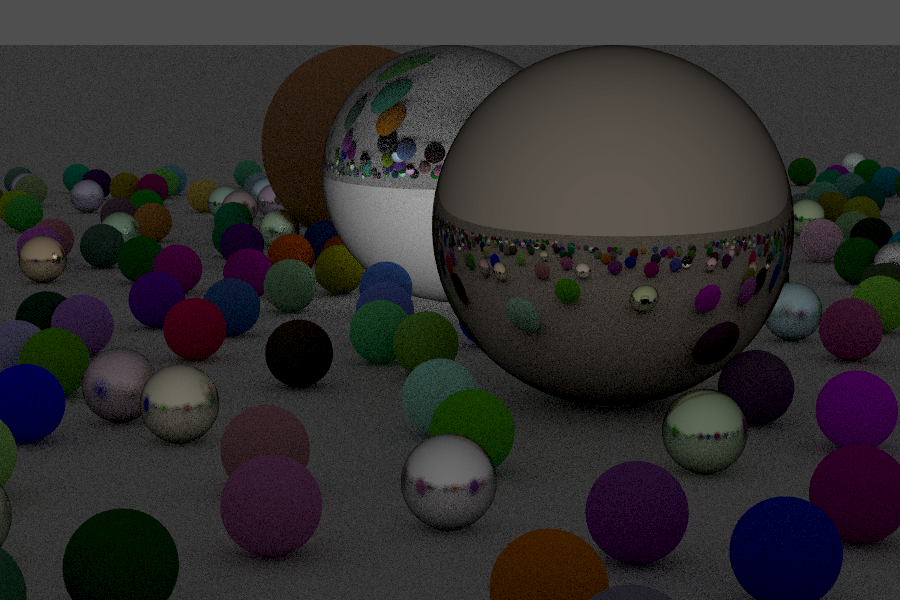
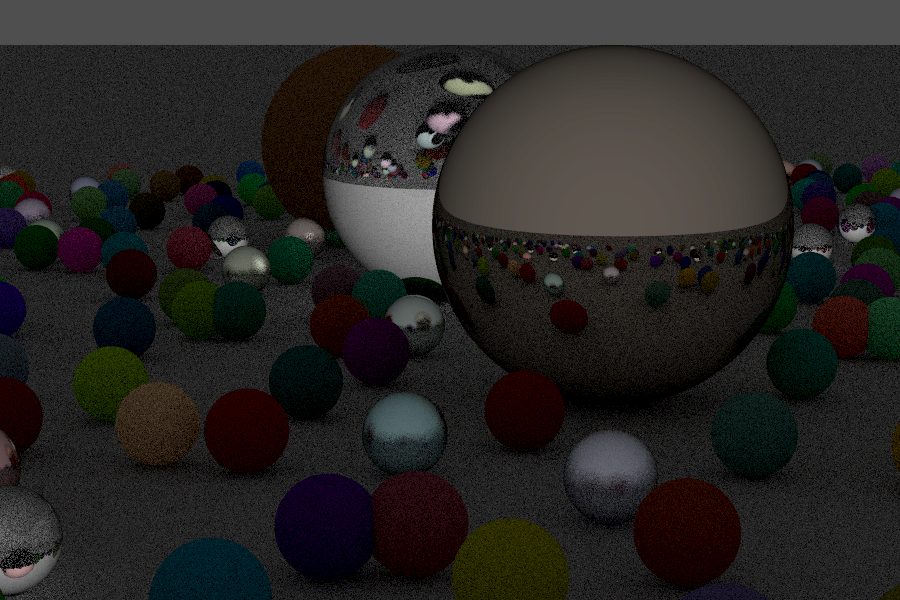
Verify that the crate is Float agnostic and rechange settings

diff --git a/raytracer_cli/src/main.rs b/raytracer_cli/src/main.rs
@@ -4,7 +4,7 @@ use std::sync::mpsc;
 use std::sync::Arc;
 
 use clap::{App, Arg};
-use indicatif::ProgressBar;
+use indicatif::{ProgressBar, ProgressStyle};
 use lalrpop_util::lalrpop_mod;
 use maplit::hashmap;
 use rand;
@@ -107,13 +107,13 @@ fn default_scene_builder() -> SceneDescription {
     for a in -11..11 {
         for b in -11..11 {
             let center = Vec3::new(
-                a as f32 + 0.9 * rng.gen::<f32>(),
+                a as FloatTy + 0.9 * rng.gen::<FloatTy>(),
                 0.2,
-                b as f32 + 0.9 * rng.gen::<f32>(),
+                b as FloatTy + 0.9 * rng.gen::<FloatTy>(),
             );
 
             if (center - Vec3::new(4.0, 0.2, 0.0)).length() > 0.9 {
-                let mat: f32 = rng.gen();
+                let mat: FloatTy = rng.gen();
 
                 if mat < 0.8 {
                     let albedo = Vec3::memberwise_product(rng.gen(), rng.gen());
@@ -163,7 +163,8 @@ fn default_scene_builder() -> SceneDescription {
         Arc::new(Metal::new(Vec3::new(0.7, 0.6, 0.5), None)),
     )));
 
-    let declarations = hittable::build_bvh(objects);
+    // let declarations = hittable::build_bvh(objects);
+    let declarations = objects;
 
     SceneDescription {
         presets: hashmap! {
@@ -253,6 +254,12 @@ fn main() {
     drop(send);
 
     let progress_bar = ProgressBar::new((ny * nx) as _);
+    progress_bar.set_style(
+        ProgressStyle::default_bar()
+            .template("{spinner:.green} [{elapsed_precise}] [{bar:40.cyan/blue}] ({eta})")
+            .progress_chars("#>-"),
+    );
+
     for (i, j, color) in recv.into_iter() {
         image.set_pixel(i, j, color);
         progress_bar.inc(1);

diff --git a/raytracer_cli/src/scene_description/creators.rs b/raytracer_cli/src/scene_description/creators.rs
@@ -6,7 +6,7 @@ use crate::PresetConfig;
 
 use raytracer::hittable::{Plane, Sphere};
 use raytracer::material::{Lambertian, Light, Material, Metal};
-use raytracer::{Hittable, Vec3};
+use raytracer::{FloatTy, Hittable, Vec3};
 
 pub(crate) fn typecheck_params(
     prototype: &HashMap<String, (SceneObjectKind, bool)>,
@@ -80,7 +80,7 @@ pub(crate) fn preset_creator(params: HashMap<String, SceneObject>) -> PresetConf
 
 pub(crate) fn sphere_creator(params: HashMap<String, SceneObject>) -> Box<dyn Hittable> {
     let center: Vec3 = unwrap_scene_object!(params; "center"; SceneObject::Vec3(v) => *v);
-    let radius: f32 = unwrap_scene_object!(params; "radius"; SceneObject::Float(f) => *f);
+    let radius: FloatTy = unwrap_scene_object!(params; "radius"; SceneObject::Float(f) => *f);
     let material: Arc<dyn Material> =
         unwrap_scene_object!(params; "material"; SceneObject::Material(m) => m.clone());
 
@@ -110,6 +110,6 @@ pub(crate) fn light_creator(params: HashMap<String, SceneObject>) -> SceneObject
 
 pub(crate) fn metal_creator(params: HashMap<String, SceneObject>) -> SceneObject {
     let albedo: Vec3 = unwrap_scene_object!(params; "albedo"; SceneObject::Vec3(v) => *v);
-    let fuzz: Option<f32> = optional_scene_object!(params; "fuzz"; SceneObject::Float(f) => *f);
+    let fuzz: Option<FloatTy> = optional_scene_object!(params; "fuzz"; SceneObject::Float(f) => *f);
     SceneObject::Material(Arc::new(Metal::new(albedo, fuzz)))
 }

diff --git a/raytracer/src/material/utils.rs b/raytracer/src/material/utils.rs
@@ -25,20 +25,11 @@ pub fn schlick(cos: FloatTy, reflective_index: FloatTy) -> FloatTy {
 
 #[inline]
 pub fn random_unit_hemisphere<R: Rng>(rng: &mut R, normal: Vec3) -> Vec3 {
-    let [x, y, z]: [f64; 3] = UnitSphere.sample(rng);
-    let v = Vec3::new(x as _, y.abs() as _, z as _).to_unit();
-
-    let t = if normal.x.abs() > normal.y.abs() {
-        Vec3::new(normal.z, 0.0, -normal.x).to_unit()
+    let v: [FloatTy; 3] = UnitSphere.sample(rng);
+    let v: Vec3 = v.into();
+    if Vec3::dot(v, normal) > 0.0 {
+        v
     } else {
-        Vec3::new(0.0, -normal.z, normal.y).to_unit()
-    };
-    let s = Vec3::cross(normal, t);
-
-    Vec3::new(
-        v.x * s.x + v.y * normal.x + v.z * t.x,
-        v.x * s.y + v.y * normal.y + v.z * t.y,
-        v.x * s.z + v.y * normal.z + v.z * t.z,
-    )
-    .to_unit()
+        v
+    }
 }

diff --git a/raytracer/src/hittable/sphere.rs b/raytracer/src/hittable/sphere.rs
@@ -1,6 +1,7 @@
 use std::sync::Arc;
 
 use super::{HitRecord, Hittable, AABB};
+use crate::fconsts;
 use crate::material::Material;
 use crate::utils;
 use crate::{FloatTy, Ray, Vec3};
@@ -24,8 +25,8 @@ impl Sphere {
     fn compute_uv(p: Vec3) -> (FloatTy, FloatTy) {
         let phi = p.z.atan2(p.x);
         let theta = p.y.asin();
-        let u = 1.0 - (phi + std::f32::consts::PI) / (2.0 * std::f32::consts::PI);
-        let v = (theta + std::f32::consts::FRAC_PI_2) / std::f32::consts::PI;
+        let u = 1.0 - (phi + fconsts::PI) / (2.0 * fconsts::PI);
+        let v = (theta + fconsts::FRAC_PI_2) / fconsts::PI;
         (u, v)
     }
 }

diff --git a/raytracer/src/hittable/plane.rs b/raytracer/src/hittable/plane.rs
@@ -1,5 +1,6 @@
 use std::sync::Arc;
 
+use crate::fconsts;
 use crate::hittable::{HitRecord, Hittable};
 use crate::material::Material;
 use crate::ray::Ray;
@@ -27,7 +28,7 @@ impl Plane {
 impl Hittable for Plane {
     fn is_hit_by(&self, ray: &Ray, tmin: FloatTy, tmax: Option<FloatTy>) -> Option<HitRecord> {
         let denominator = Vec3::dot(ray.direction, self.normal);
-        if denominator.abs() <= std::f32::EPSILON {
+        if denominator.abs() <= fconsts::EPSILON {
             return None;
         }
 

diff --git a/raytracer/src/lib.rs b/raytracer/src/lib.rs
@@ -6,7 +6,7 @@ mod ray;
 mod utils;
 mod vec3;
 
-pub type FloatTy = f32;
+pub type FloatTy = f64;
 
 pub use crate::camera::*;
 pub use crate::color::*;
@@ -46,4 +46,11 @@ pub fn compute_color(
     } else {
         background
     }
+}
+
+pub mod fconsts {
+    use super::FloatTy;
+    pub const PI: FloatTy = std::f64::consts::PI as _;
+    pub const EPSILON: FloatTy = std::f32::EPSILON as _;
+    pub const FRAC_PI_2: FloatTy = std::f64::consts::FRAC_PI_2 as _;
 }

diff --git a/raytracer_cli/src/scene_description/mod.rs b/raytracer_cli/src/scene_description/mod.rs
@@ -3,7 +3,7 @@ use std::sync::Arc;
 
 use crate::PresetConfig;
 use raytracer::material::Material;
-use raytracer::{Hittable, Vec3};
+use raytracer::{FloatTy, Hittable, Vec3};
 
 pub mod builder;
 mod creators;
@@ -18,7 +18,7 @@ pub enum SceneObjectKind {
 
 #[derive(Clone)]
 pub enum SceneObject {
-    Float(f32),
+    Float(FloatTy),
     Vec3(Vec3),
     Material(Arc<dyn Material>),
 }
